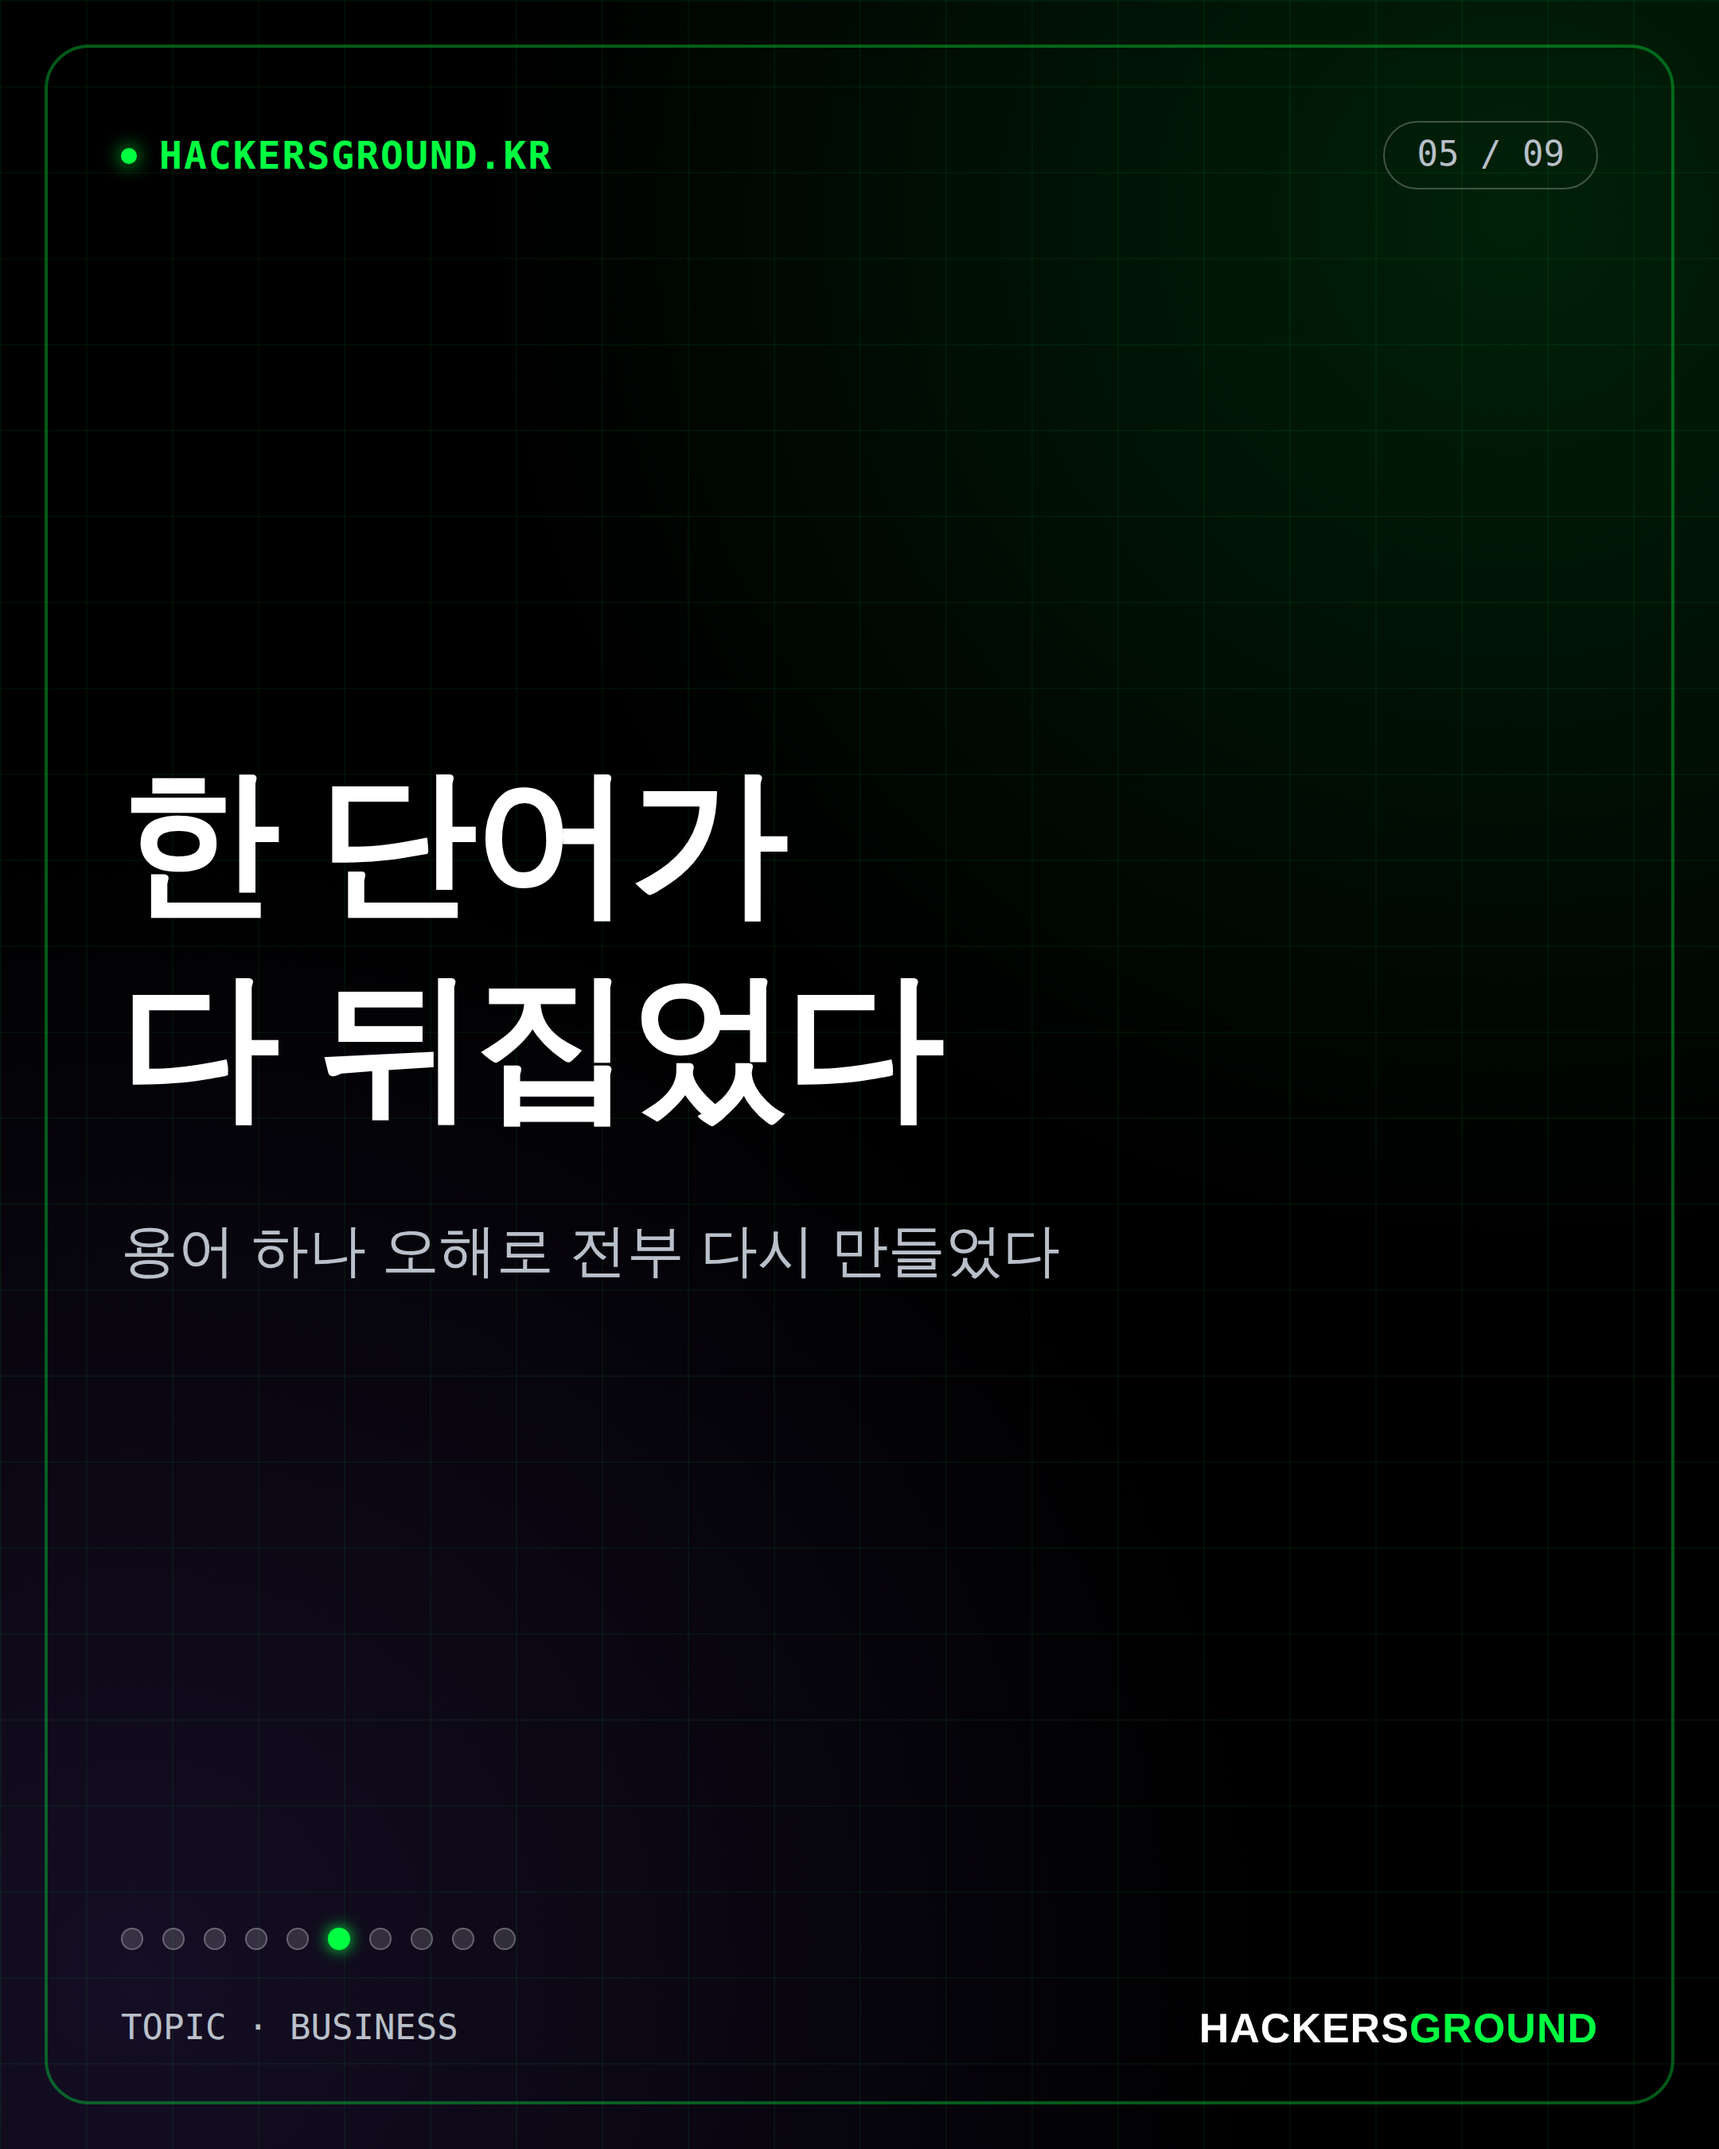
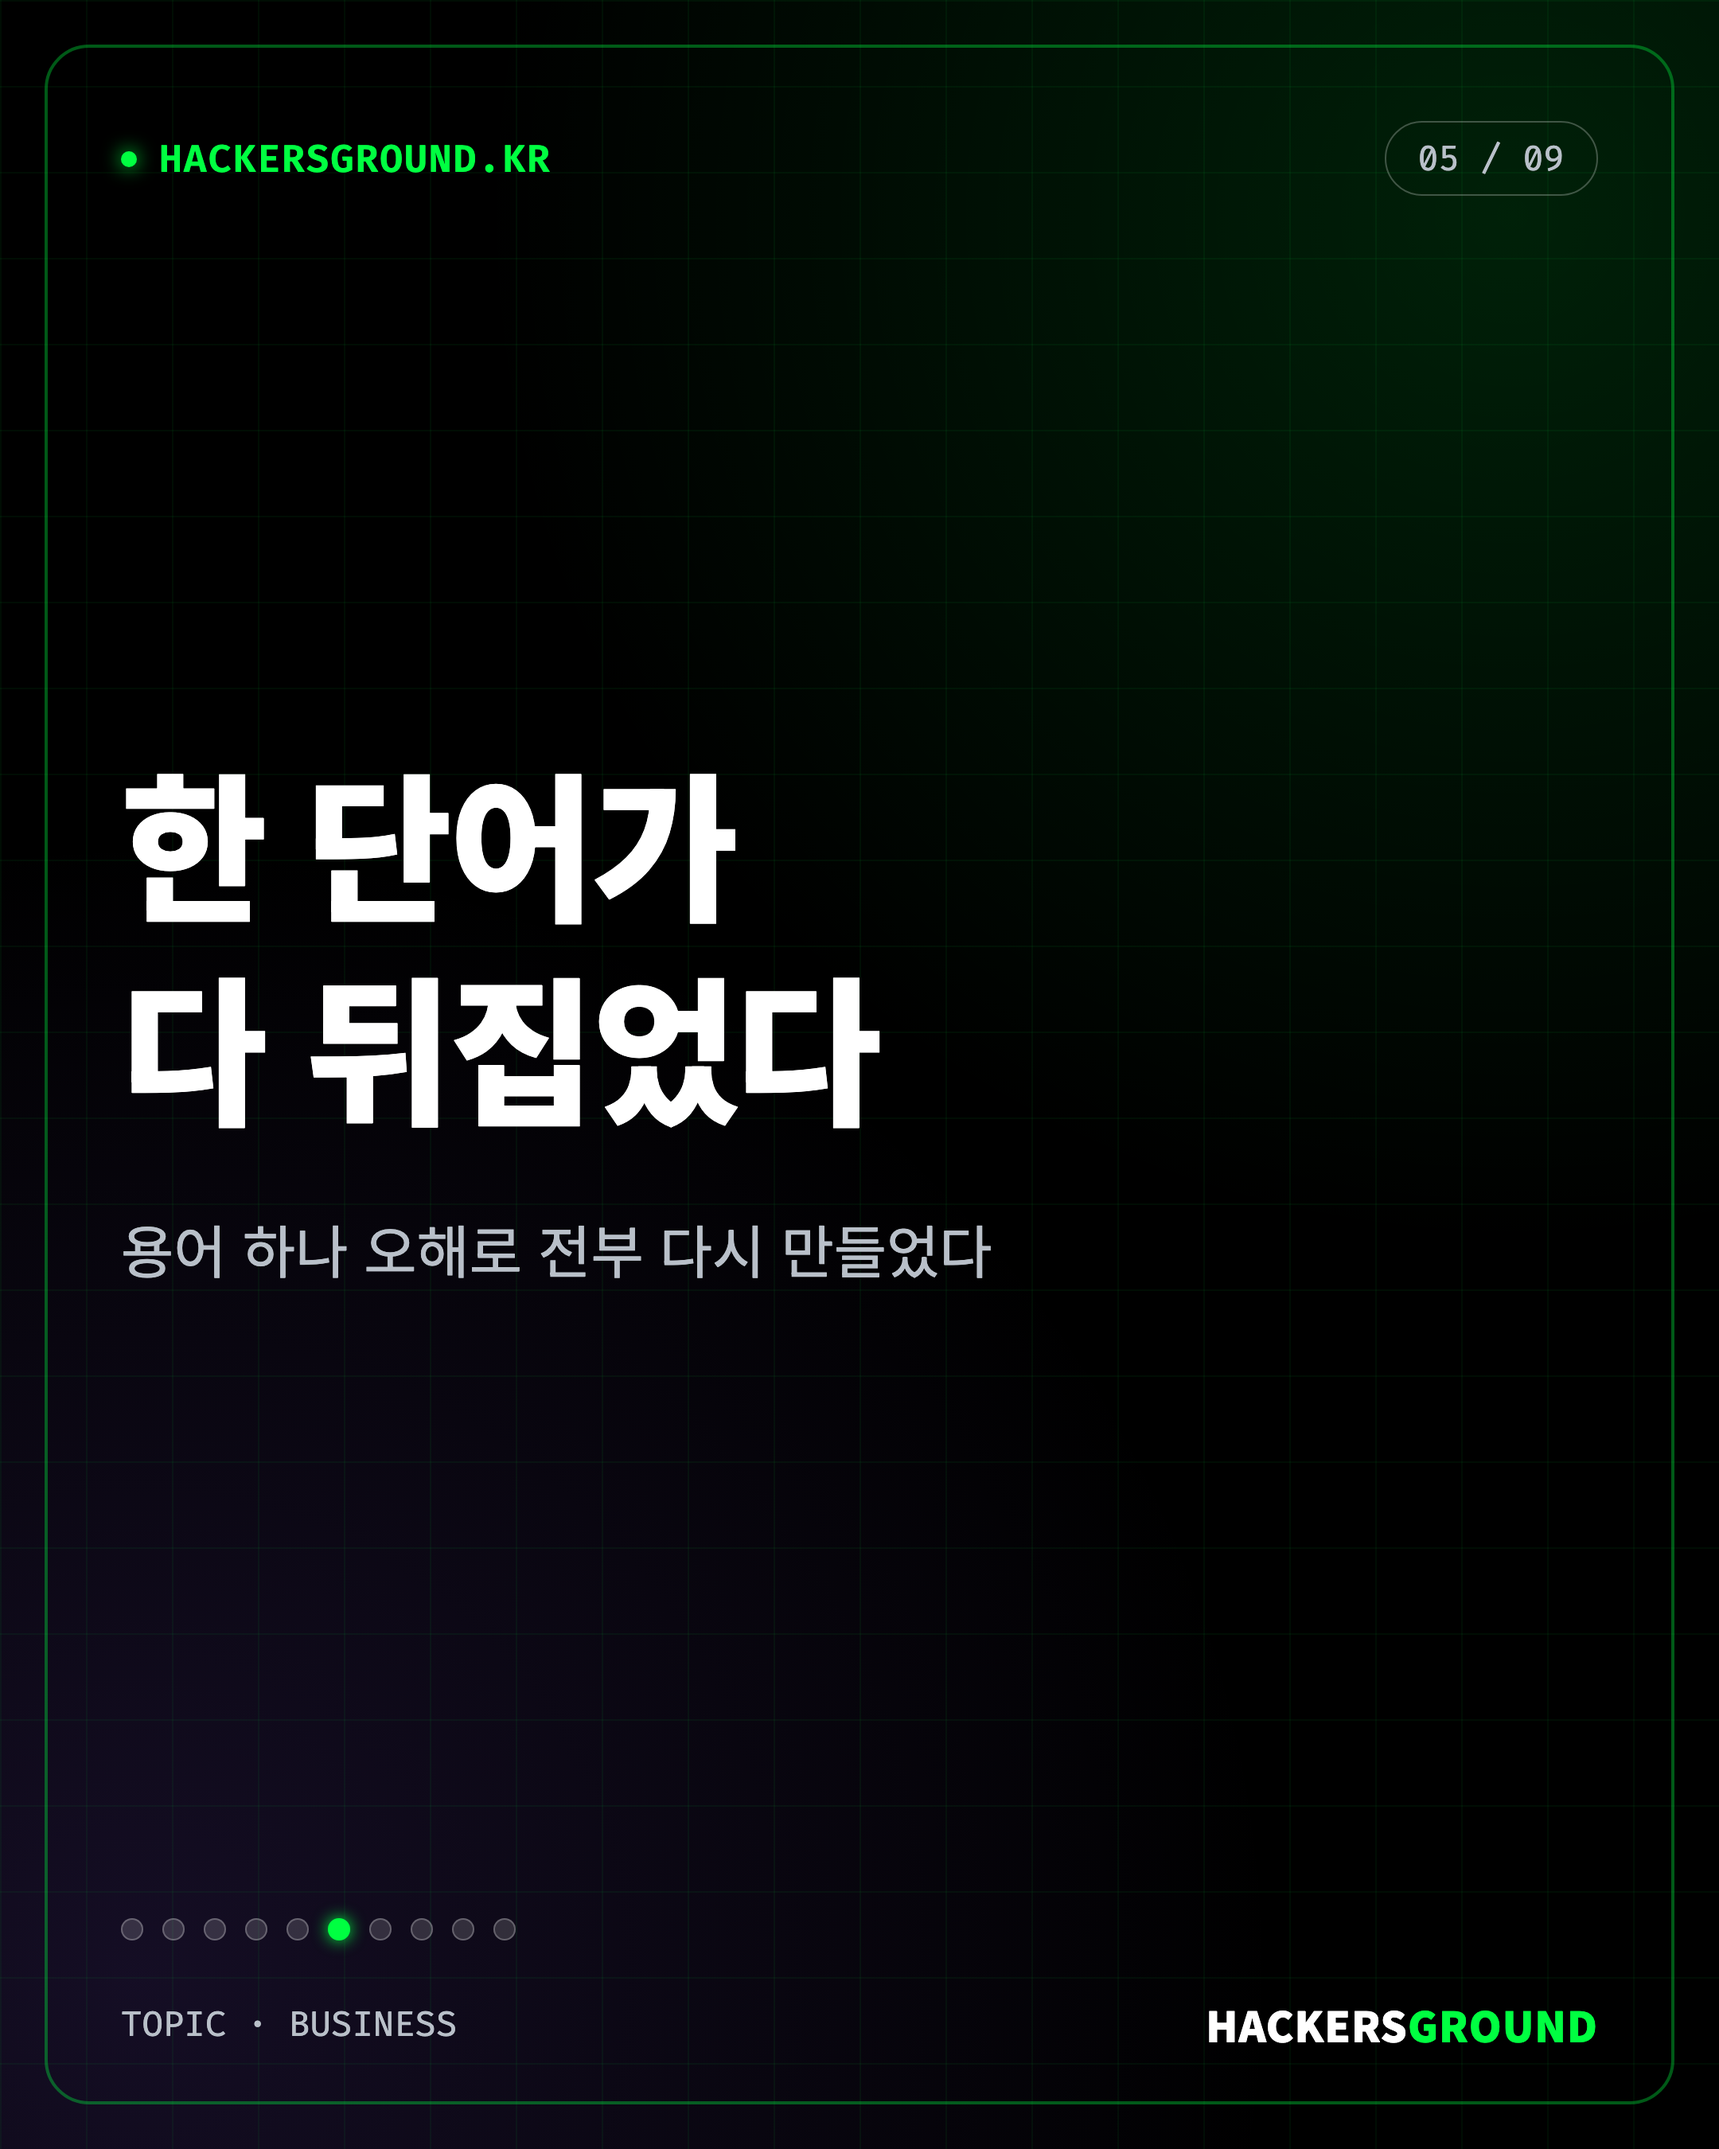
카드뉴스 A 텍스트 및 first C 템플릿 정비
- Story A 08번 타이틀을 두 줄에 맞게 축소 및 자간 조정
- first와 Story C에 마스코트 에셋 추가 및 이미지 생성
- A, first, Story C 빌드 스크립트가 각 카드뉴스 폴더의 템플릿을 사용하도록 수정

diff --git a/cardnews/26_8_A/storyA_08.html b/cardnews/26_8_A/storyA_08.html
@@ -149,7 +149,7 @@
   </div>
 
   <div class="story-body">
-    <div class="slogan">만드는 건 된다.<br>재밌게 만드는 게 어렵다</div>
+    <div class="slogan" style="font-size:88px; letter-spacing:-4px;">만드는 건 된다.<br>재밌게 만드는게 어렵다</div>
     <div class="desc">AI는 결과물을 빠르게 만든다. 하지만 무엇이 재미있는지는 아직 사람이 계속 판단해야 한다</div>
   </div>
   <div class="progress-row"><div class="progress-dot"></div><div class="progress-dot"></div><div class="progress-dot"></div><div class="progress-dot"></div><div class="progress-dot"></div><div class="progress-dot"></div><div class="progress-dot"></div><div class="progress-dot"></div><div class="progress-dot active"></div><div class="progress-dot"></div></div>

diff --git a/cardnews/26_8_A/storyA_07.html b/cardnews/26_8_A/storyA_07.html
@@ -150,7 +150,7 @@
 
   <div class="story-body">
     <div class="slogan">그럼 게임성은?</div>
-    <div class="desc">타격감, 템포, 난이도, 피드백. 작동하는 게임을 재미있는 게임으로 만드는 과정이 남았다</div>
+    <div class="desc">타격감, 템포, 난이도, 피드백. '작동하는 게임'을 '재미있는 게임'으로 만드는 과정이 남았다</div>
   </div>
   <div class="progress-row"><div class="progress-dot"></div><div class="progress-dot"></div><div class="progress-dot"></div><div class="progress-dot"></div><div class="progress-dot"></div><div class="progress-dot"></div><div class="progress-dot"></div><div class="progress-dot active"></div><div class="progress-dot"></div><div class="progress-dot"></div></div>
   <div class="footer">

diff --git a/cardnews/26_8_A/build_story.py b/cardnews/26_8_A/build_story.py
@@ -1,12 +1,12 @@
-import re, os
+from pathlib import Path
 
-TEMPLATE = open("/tmp/cardnews/story_template.html", encoding="utf-8").read()
+BASE_DIR = Path(__file__).resolve().parent
+TEMPLATE = (BASE_DIR / "story_template.html").read_text(encoding="utf-8")
 
 def make(content_html, outname):
     html = TEMPLATE.replace("<!-- CONTENT -->", content_html)
-    path = f"/tmp/cardnews/{outname}.html"
-    with open(path, "w", encoding="utf-8") as f:
-        f.write(html)
+    path = BASE_DIR / f"{outname}.html"
+    path.write_text(html, encoding="utf-8")
     return path
 
 FOOTER = lambda meta: f'''
@@ -55,7 +55,7 @@ beats = [
     ("보이는 건<br>빠르게 만든다", "컨셉, 멀티뷰, 3D 모델링까지. 프로토타입을 만드는 속도는 압도적이었다"),
     ("그럴듯함과<br>완성도는 달랐다", "손가락, 표정, 리깅, 애니메이션. 플레이할수록 작은 어색함이 쌓였다"),
     ("그럼 게임성은?", "타격감, 템포, 난이도, 피드백. '작동하는 게임'을 '재미있는 게임'으로 만드는 과정이 남았다"),
-    ("만드는 건 된다.<br>재밌게 만드는 게 어렵다", "AI는 결과물을 빠르게 만든다. 하지만 무엇이 재미있는지는 아직 사람이 계속 판단해야 한다"),
+    ("만드는 건 된다.<br>재밌게만드는 게 어렵다", "AI는 결과물을 빠르게 만든다. 하지만 무엇이 재미있는지는 아직 사람이 계속 판단해야 한다"),
     ("AI는 속도를 만들고,<br>사람은 게임을 만든다", "구현과 제작은 AI에게 맡긴다. 방향과 감각, 그리고 마지막 완성도는 사람이 결정한다"),
 ]
 
@@ -69,9 +69,10 @@ for i, (slogan, desc) in enumerate(beats, start=1):
         9: '<img class="mascot" src="images/char1.png" style="width:260px; right:-40px; bottom:-20px; opacity:0.3;">',
     }
     mascot_html = mascots.get(i, "")
+    slogan_style = ' style="font-size:88px; letter-spacing:-4px;"' if i == 8 else ""
     content = mascot_html + HEADER(f"{i:02d} / 09") + f'''
   <div class="story-body">
-    <div class="slogan">{slogan}</div>
+    <div class="slogan"{slogan_style}>{slogan}</div>
     <div class="desc">{desc}</div>
   </div>
   ''' + progress(TOTAL, i) + FOOTER(topic_meta)

diff --git a/cardnews/26_8_C/build_story_C.py b/cardnews/26_8_C/build_story_C.py
@@ -1,12 +1,12 @@
-import os
+from pathlib import Path
 
-TEMPLATE = open("/tmp/cardnews/story_template.html", encoding="utf-8").read()
+BASE_DIR = Path(__file__).resolve().parent
+TEMPLATE = (BASE_DIR / "story_template.html").read_text(encoding="utf-8")
 
 def make(content_html, outname):
     html = TEMPLATE.replace("<!-- CONTENT -->", content_html)
-    path = f"/tmp/cardnews/{outname}.html"
-    with open(path, "w", encoding="utf-8") as f:
-        f.write(html)
+    path = BASE_DIR / f"{outname}.html"
+    path.write_text(html, encoding="utf-8")
     return path
 
 FOOTER = lambda meta: f'''

diff --git a/cardnews/first/build_storyline.py b/cardnews/first/build_storyline.py
@@ -1,12 +1,12 @@
-import os
+from pathlib import Path
 
-TEMPLATE = open("/tmp/cardnews/story_template.html", encoding="utf-8").read()
+BASE_DIR = Path(__file__).resolve().parent
+TEMPLATE = (BASE_DIR / "story_template.html").read_text(encoding="utf-8")
 
 def make(content_html, outname):
     html = TEMPLATE.replace("<!-- CONTENT -->", content_html)
-    path = f"/tmp/cardnews/{outname}.html"
-    with open(path, "w", encoding="utf-8") as f:
-        f.write(html)
+    path = BASE_DIR / f"{outname}.html"
+    path.write_text(html, encoding="utf-8")
     return path
 
 FOOTER = lambda meta: f'''
